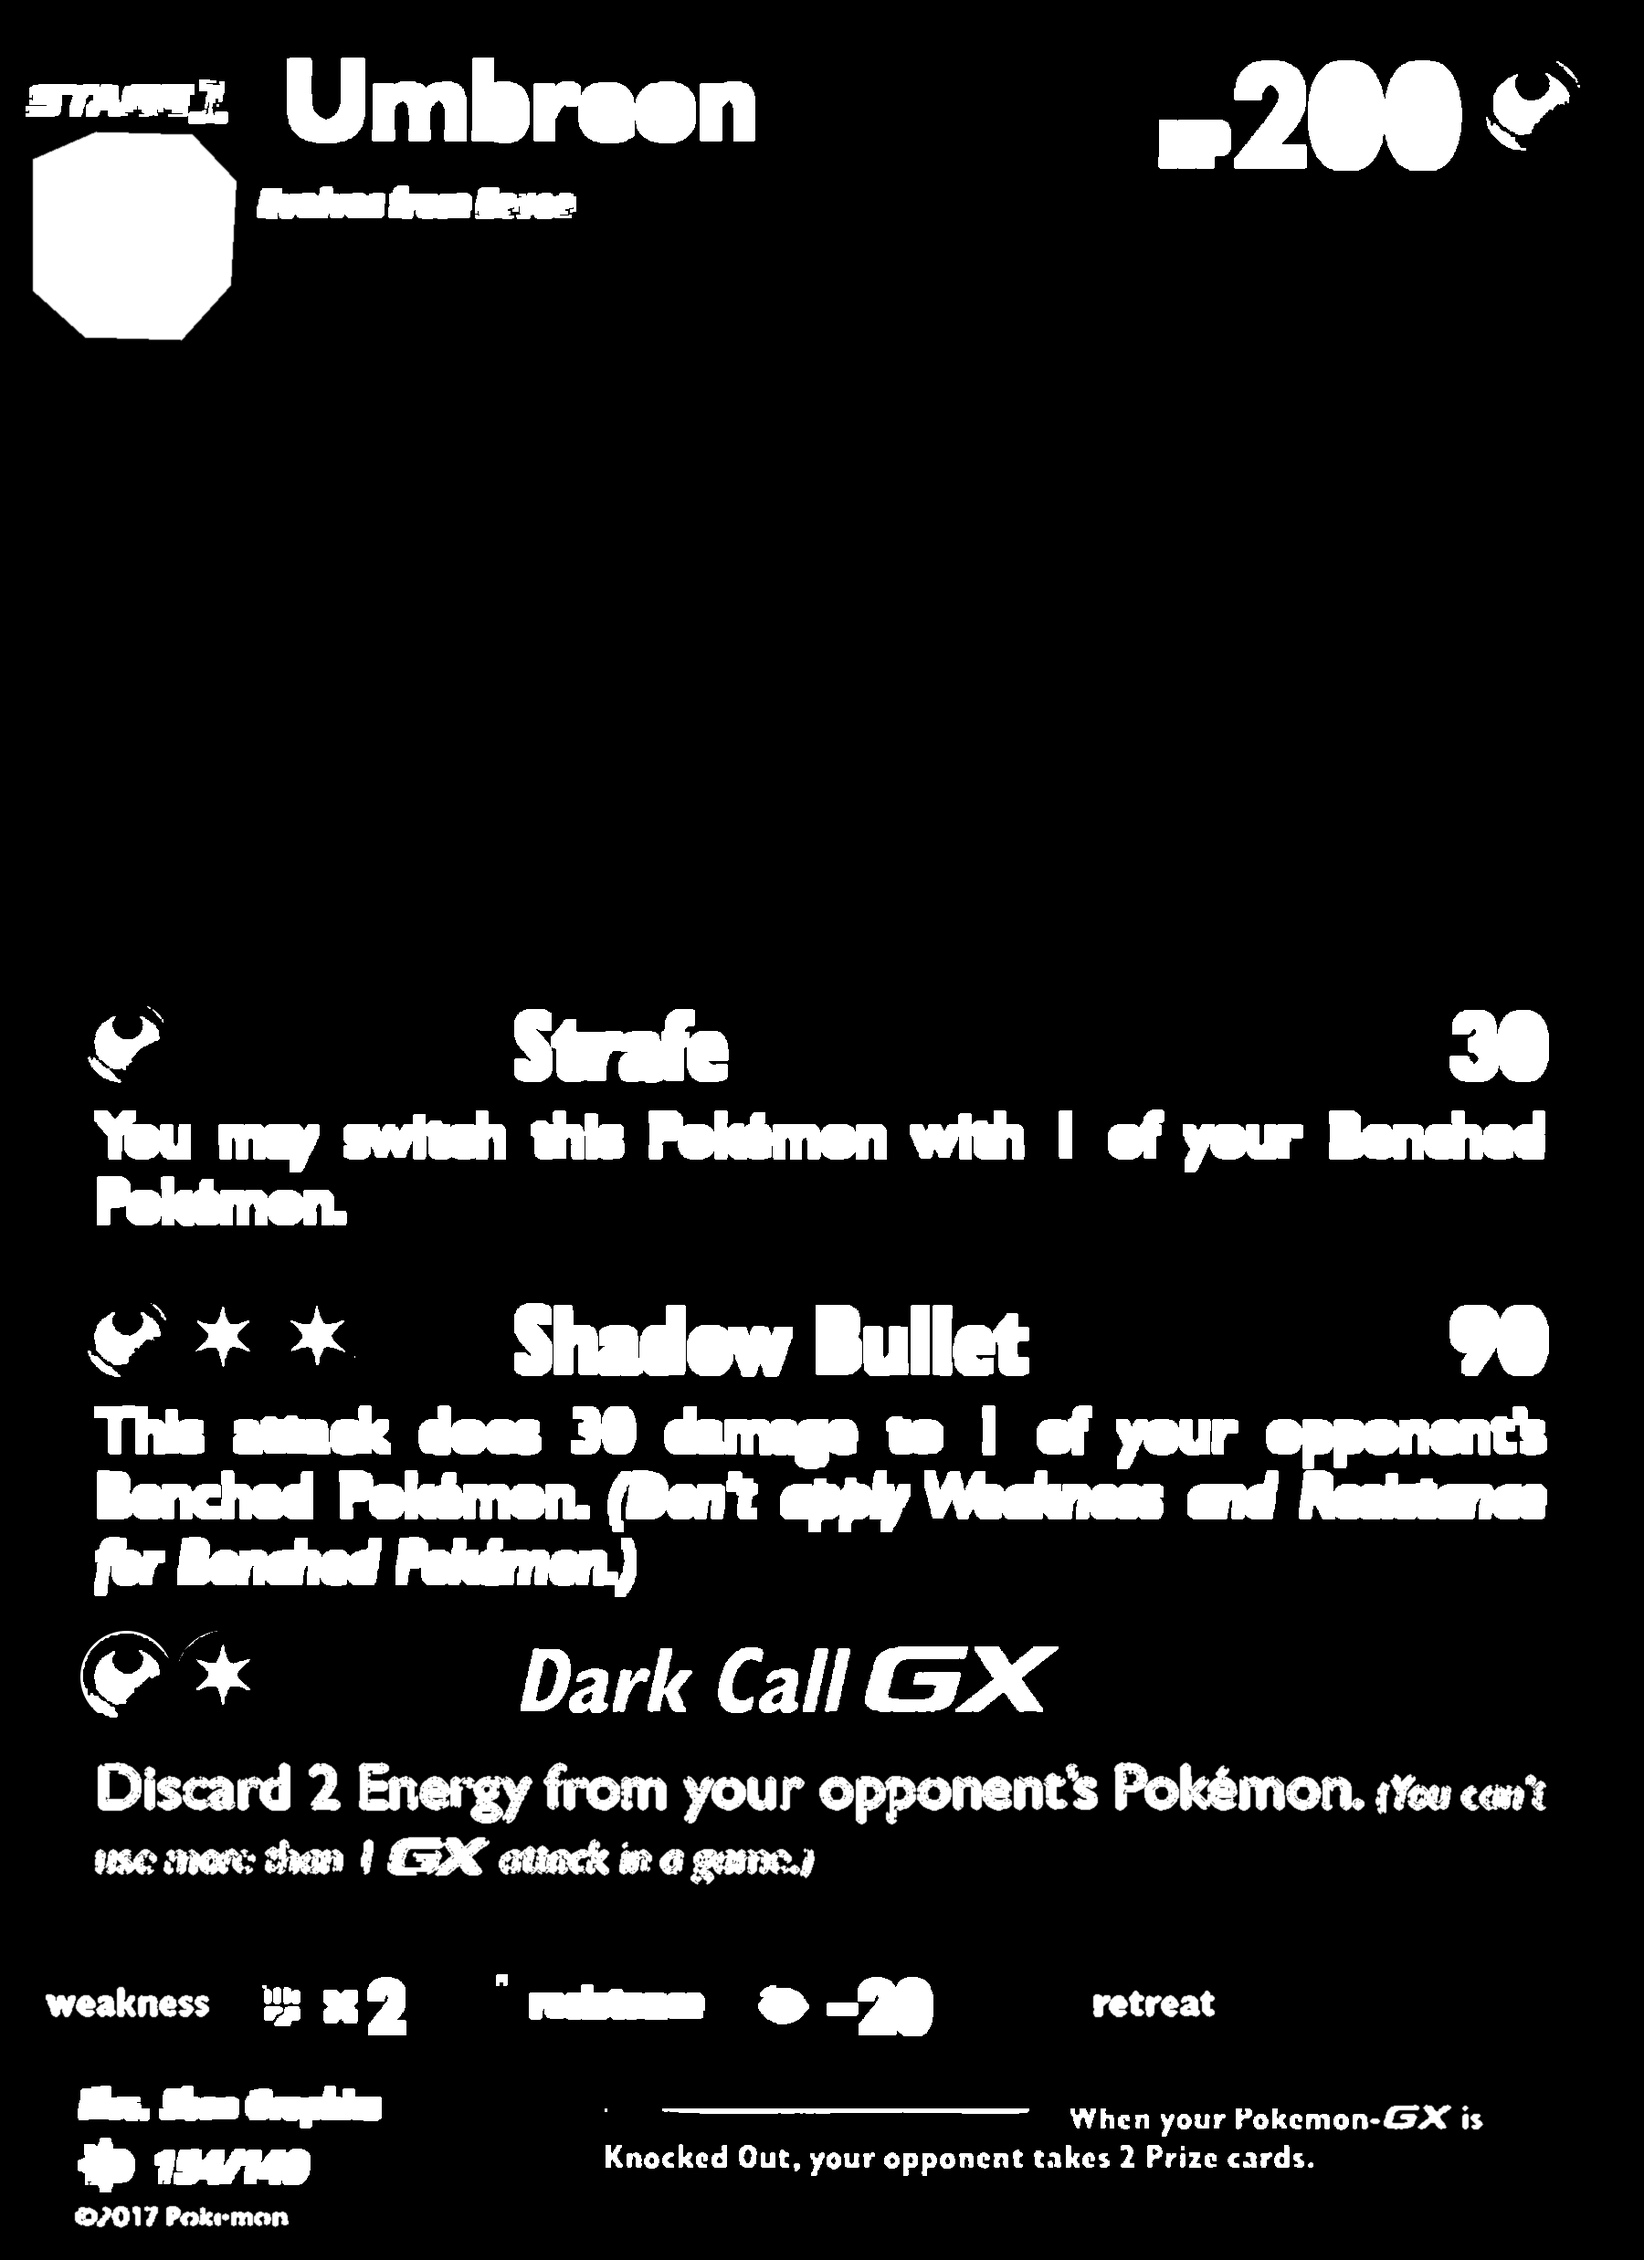
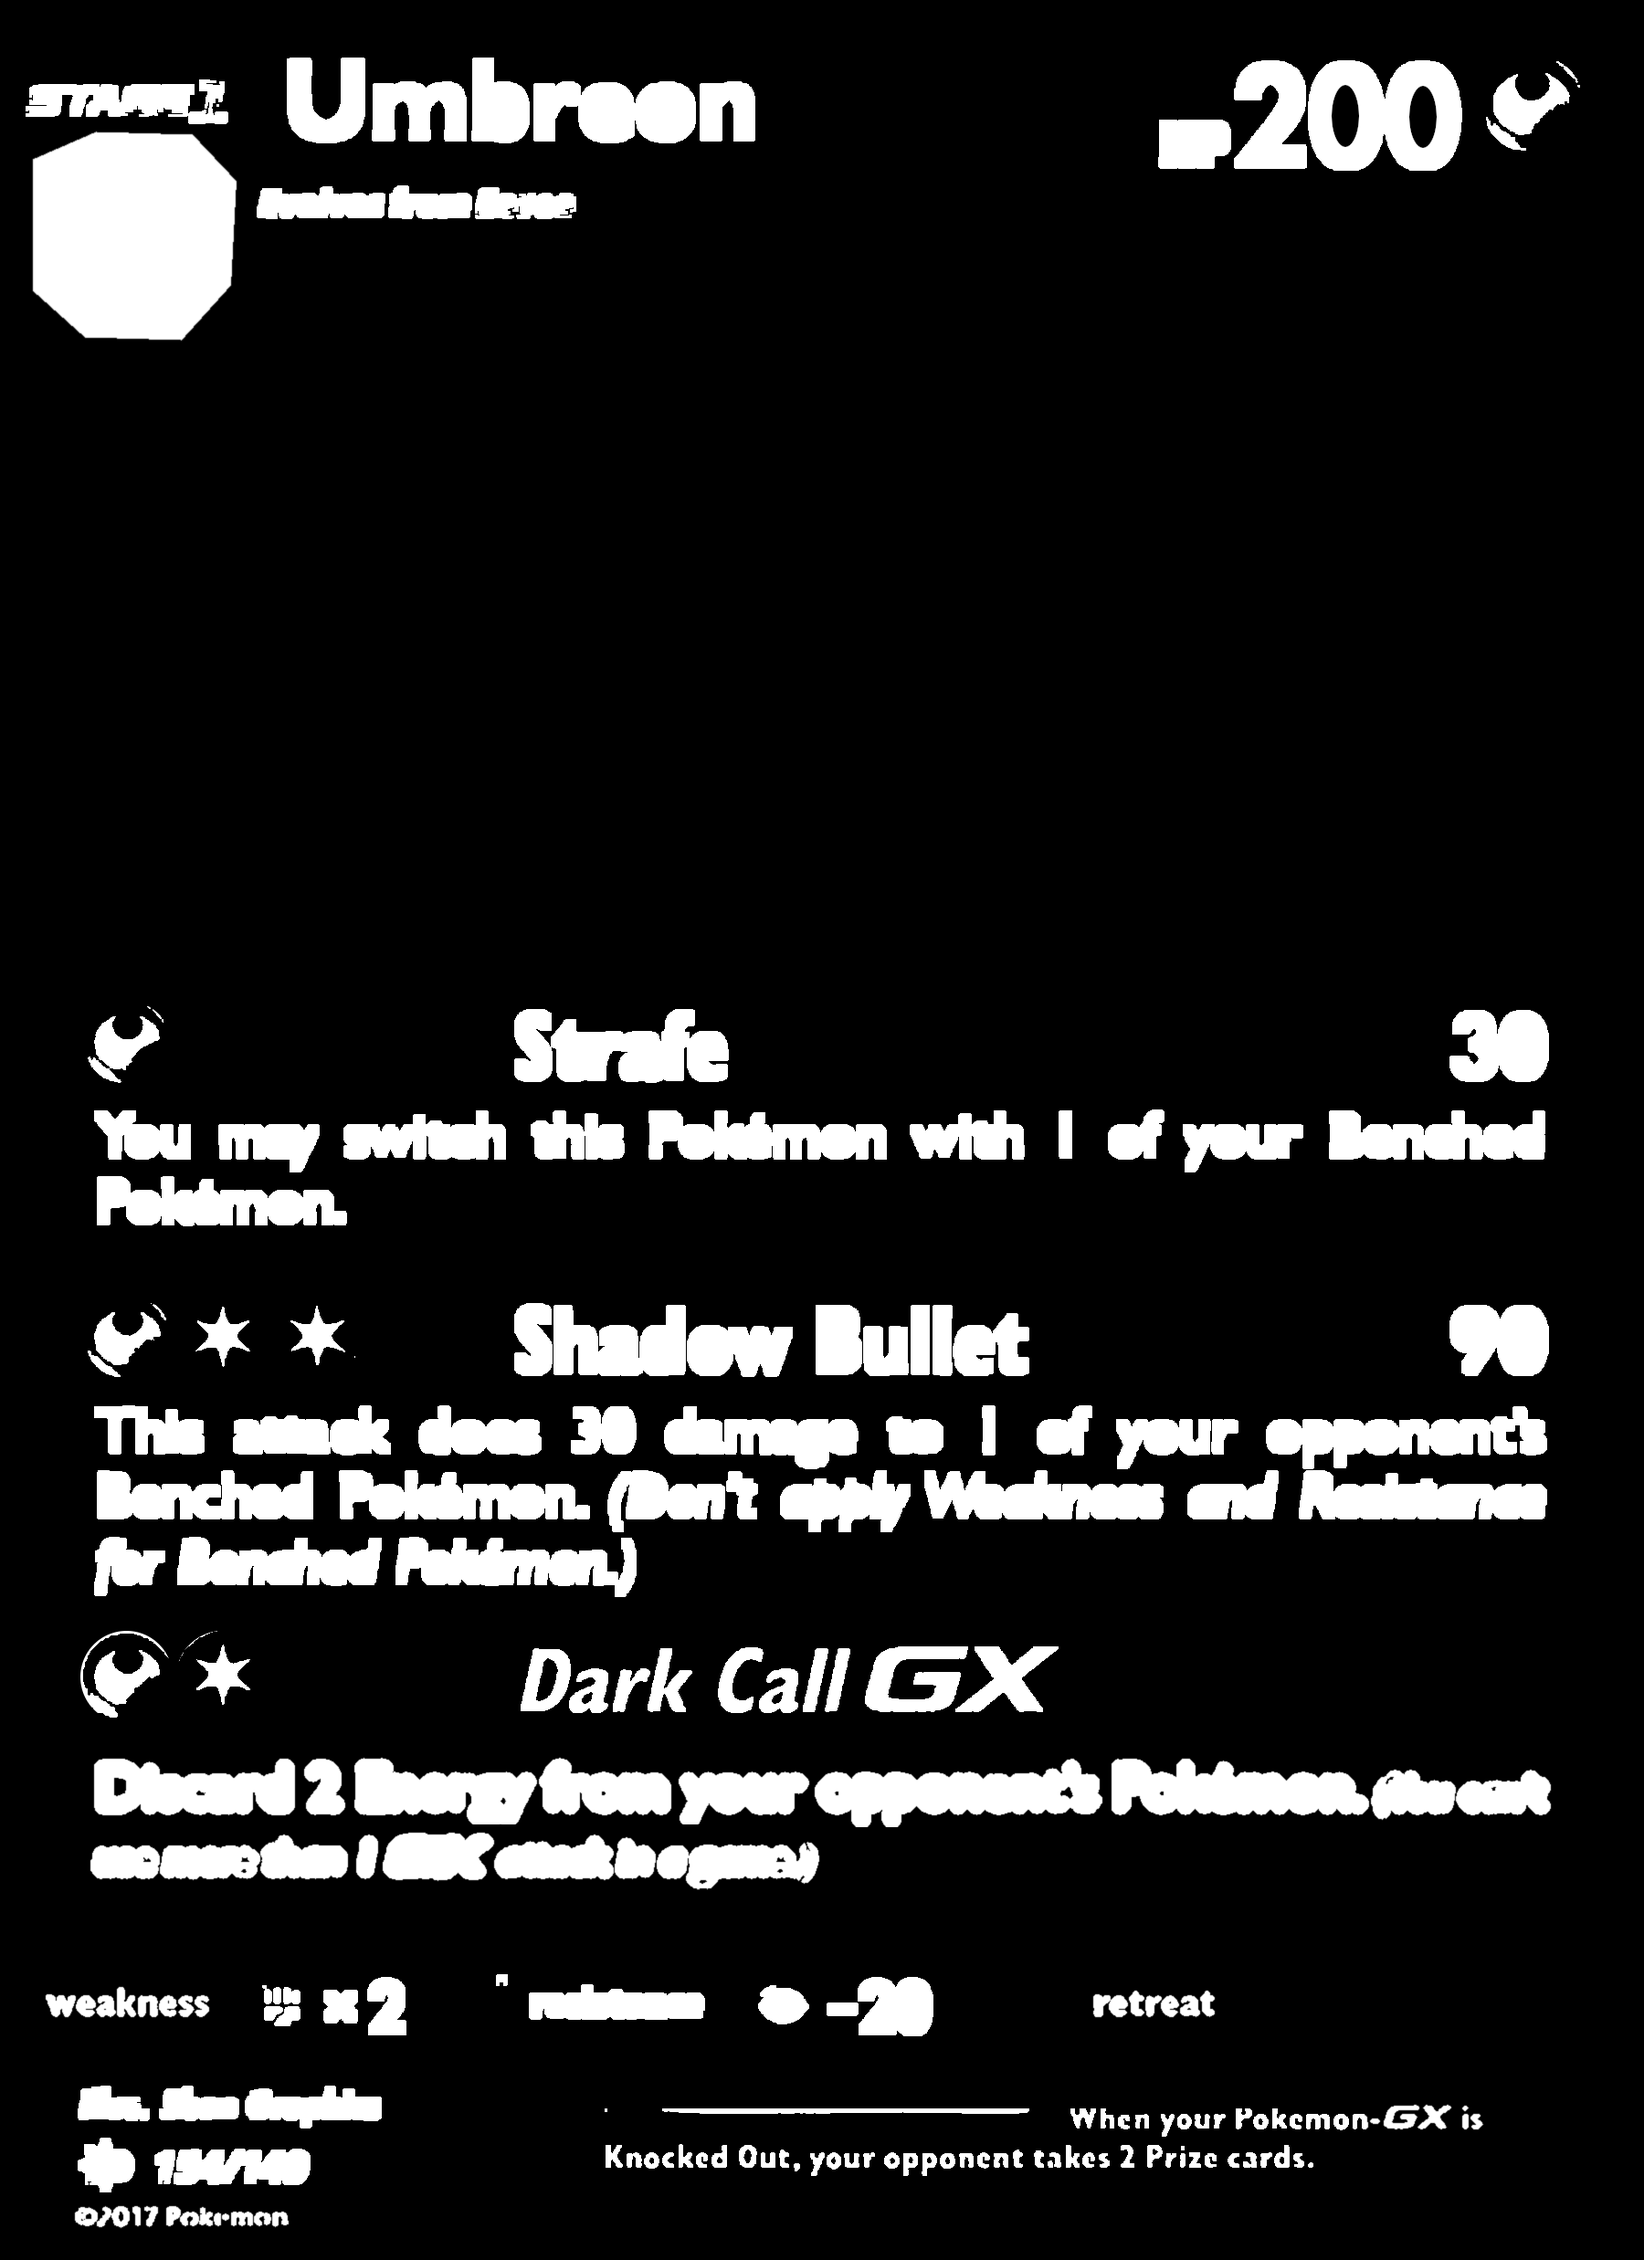
Fix Umbreon GX effect text protection

Changed region(s): [[0.0622, 0.7778, 0.9644, 0.84], [0.8089, 0.0311, 0.8711, 0.0622]]

diff --git a/scripts/umbreon_gx_text.py b/scripts/umbreon_gx_text.py
@@ -1,0 +1,46 @@
+"""GX effect glyph protection, in the clean front's 600 x 825 coordinates."""
+from pathlib import Path
+import hashlib
+import json
+import cv2
+import numpy as np
+from PIL import Image
+
+
+def protect_gx_text(front, protection, scale=3):
+    # Include the complete ascenders, accents and descenders of both lines.
+    for a, b, c, d in [(29, 640, 573, 667), (29, 666, 302, 690)]:
+        ys, xs = slice(b * scale, d * scale), slice(a * scale, c * scale)
+        rgb = front[ys, xs]
+        red, green, blue = rgb.transpose(2, 0, 1)
+        ink = (blue > red + .15) & (blue > green + .05) & (blue > .32) & (red < .55) & (green < .50)
+        keyline = (rgb.min(2) > .60) & (rgb.max(2) - rgb.min(2) < .30)
+        # The printed white keyline extends farther than the old 1px search.
+        # Only accept white next to blue ink; pale card artwork is not a glyph.
+        near = cv2.dilate(ink.astype(np.uint8), cv2.getStructuringElement(cv2.MORPH_ELLIPSE, (17, 17))) > 0
+        glyph = np.uint8(ink | (keyline & near)) * 255
+        kernel = cv2.getStructuringElement(cv2.MORPH_ELLIPSE, (3, 3))
+        glyph = cv2.morphologyEx(glyph, cv2.MORPH_CLOSE, kernel)
+        glyph = cv2.dilate(glyph, kernel)
+        # Remove scan-sized pinholes, retaining the larger open letter counters.
+        count, labels, stats, _ = cv2.connectedComponentsWithStats(255 - glyph)
+        for label in range(1, count):
+            if stats[label, cv2.CC_STAT_AREA] <= 12:
+                glyph[labels == label] = 255
+        protection[ys, xs] = cv2.GaussianBlur(glyph, (0, 0), .55) / 255
+    return protection
+
+
+if __name__ == '__main__':
+    root = Path(__file__).resolve().parents[1]
+    out = root / 'public/cards/umbreon-gx-sm1-154'
+    mask = np.asarray(Image.open(out / 'protection.png').convert('L'), np.float32) / 255
+    front = np.asarray(Image.open(out / 'front.png').convert('RGB').resize((1800, 2475)), np.float32) / 255
+    result = protect_gx_text(front, mask.copy())
+    Image.fromarray(np.uint8(np.clip(result, 0, 1) * 255)).save(out / 'protection.png')
+    manifest = json.loads((out / 'source.json').read_text())
+    manifest['maps']['protection.png'] = hashlib.sha256((out / 'protection.png').read_bytes()).hexdigest()
+    (out / 'source.json').write_text(json.dumps(manifest, indent=2) + '\n')
+    review = root / 'artifacts/umbreon-gx-sm1-154'
+    overlay = front * (1 - result[..., None] * .48) + np.array([70, 80, 255]) / 255 * result[..., None] * .48
+    Image.fromarray(np.uint8(overlay * 255)).crop((60, 1905, 1740, 2085)).save(review / 'gx-text-protection-overlay.png')

diff --git a/scripts/create-umbreon-gx-maps.py b/scripts/create-umbreon-gx-maps.py
@@ -47,19 +47,9 @@ filled=np.zeros((H,W),np.uint8); cv2.drawContours(filled,cs,-1,255,cv2.FILLED)
 protection=np.maximum(ink,filled/255)
 portrait=mask('M12 58 L35 48 L70 49 L86 66 L84 104 L66 124 L31 123 L12 106 Z')
 protection=np.maximum(protection,portrait)
-# GX effect type has blue ink and a white printed keyline. Protect their actual
-# pixels without filling white contours, which joins letters and hides etching
-# in the gaps (especially around "Energy from" and "your").
-for a,b,c,d in [(29,640,573,667),(29,666,302,690)]:
- y0,y1=b*S,d*S; x0,x1=a*S,c*S
- rgb=front[y0:y1,x0:x1]; red,green,blue=rgb.transpose(2,0,1)
- blue_ink=(blue>red+.15)&(blue>green+.05)&(blue>.32)&(red<.55)&(green<.50)
- white_keyline=(rgb.min(2)>.72)&(rgb.max(2)-rgb.min(2)<.2)
- near_ink=cv2.dilate(np.uint8(blue_ink),cv2.getStructuringElement(cv2.MORPH_ELLIPSE,(7,7)))>0
- glyph=np.uint8(blue_ink|(white_keyline&near_ink))*255
- glyph=cv2.morphologyEx(glyph,cv2.MORPH_CLOSE,cv2.getStructuringElement(cv2.MORPH_ELLIPSE,(3,3)))
- glyph=cv2.dilate(glyph,cv2.getStructuringElement(cv2.MORPH_ELLIPSE,(3,3)))
- protection[y0:y1,x0:x1]=np.maximum(protection[y0:y1,x0:x1],cv2.GaussianBlur(glyph,(0,0),.55)/255)
+# Blue GX effect ink and its complete white keylines share the targeted repair.
+from umbreon_gx_text import protect_gx_text
+protection=protect_gx_text(front,protection,S)
 # White lettering on the smooth dark banners is protected by its glyphs,
 # never by a filled text-row rectangle.
 for a,b,c,d in [(190,598,410,629),(221,770,561,802)]:
